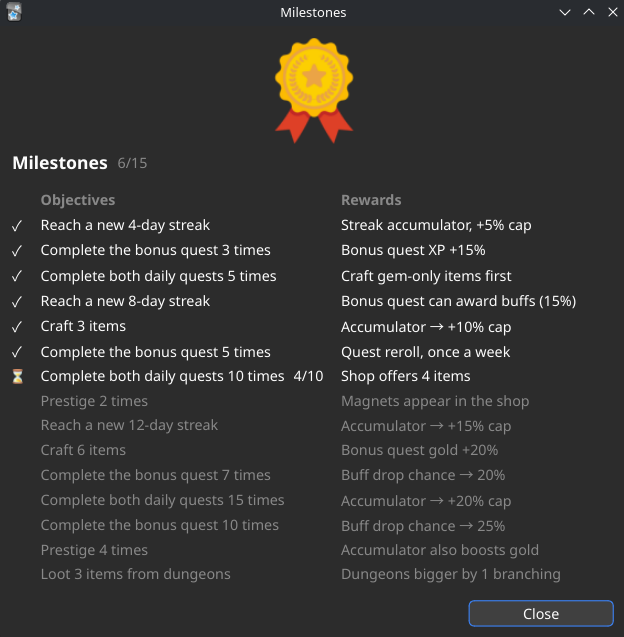
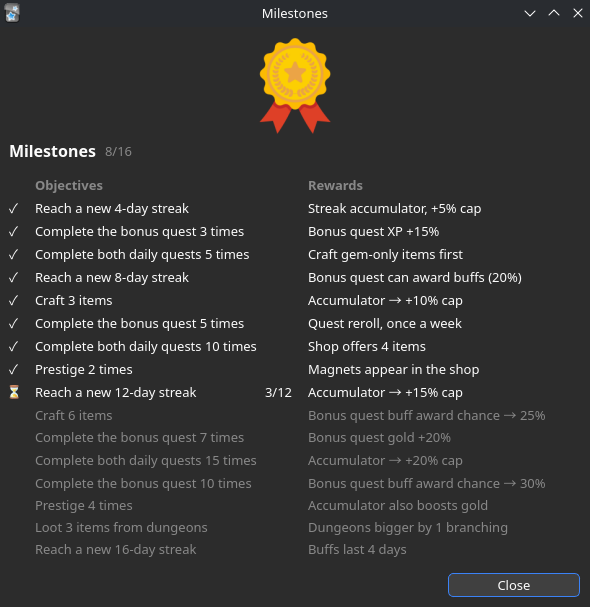
Modify README, prepare version release 2.4.1

diff --git a/README.md b/README.md
@@ -5,9 +5,19 @@ A personal fork of [CollectQuest](https://ankiweb.net/shared/info/627746544) by 
 ## Changes in this fork
 
 Most notably:
-- **New features:** dungeons, long-term milestones, new items
-- **Changes:** revamped bonus stats and difficulty options, reward rebalancing, UI refinement
-- **Fixes:** properly working streak counting and bonus stats
+- New features: 
+  - Dungeons — additional adventures that are found and progressed in by reviewing cards
+  - Milestones — long term goals & rewards to strive toward
+  - 28+ new items to collect
+- Changes:
+  - Quest objectives are fitted to the player's profile rather than same for everyone
+  - Revamped bonus stats — mechanics that are more intuitive and scale better with new items and other bonuses
+  - Revamped difficulty options
+  - Reward rebalancing
+  - Many UI refinements
+- Fixes: 
+  - Properly working streak counting and its reward payout
+  - Fixed bonus stats — some items' effects actually did nothing
 
 Refer to the [changelog](CHANGELOG.md) for details. Changes in this fork begin with version 2.0.0.
 

diff --git a/CHANGELOG.md b/CHANGELOG.md
@@ -1,5 +1,23 @@
 # Changelog
 
+## 2.4.1
+
+### Starting boosts
+
+The prestige window's upgrades are now split in two sections: **Stat upgrades** for the bonuses to what you earn, and **Starting boosts** for what each run begins with. Starting gold was moved to the new section, but it works the same as before. 
+
+New starting boosts:
+- **Bronze key** (5 prestige points)
+- **Silver key** (10 prestige points) — It is shown as `Locked` until the Bronze key is bought.
+
+Both of these act as regular items — you'll see them in your items collection right after prestiging. They can also be bought mid-run and will be usable immediately.
+
+### Other changes
+
+- Item names now capitalize only their first word, e.g. Red Potion II is now Red potion II. Titled items such as Tome of Beginnings and Elixir of Insight stay as they were.
+- The reroll button next to a daily quest is now a bit smaller, so the quest list no longer shifts when the reroll button is clicked.
+- Quest titles that are too long break to the next line in a bit more sensible manner.
+
 ## 2.4.0
 
 ### Gem scrambler
